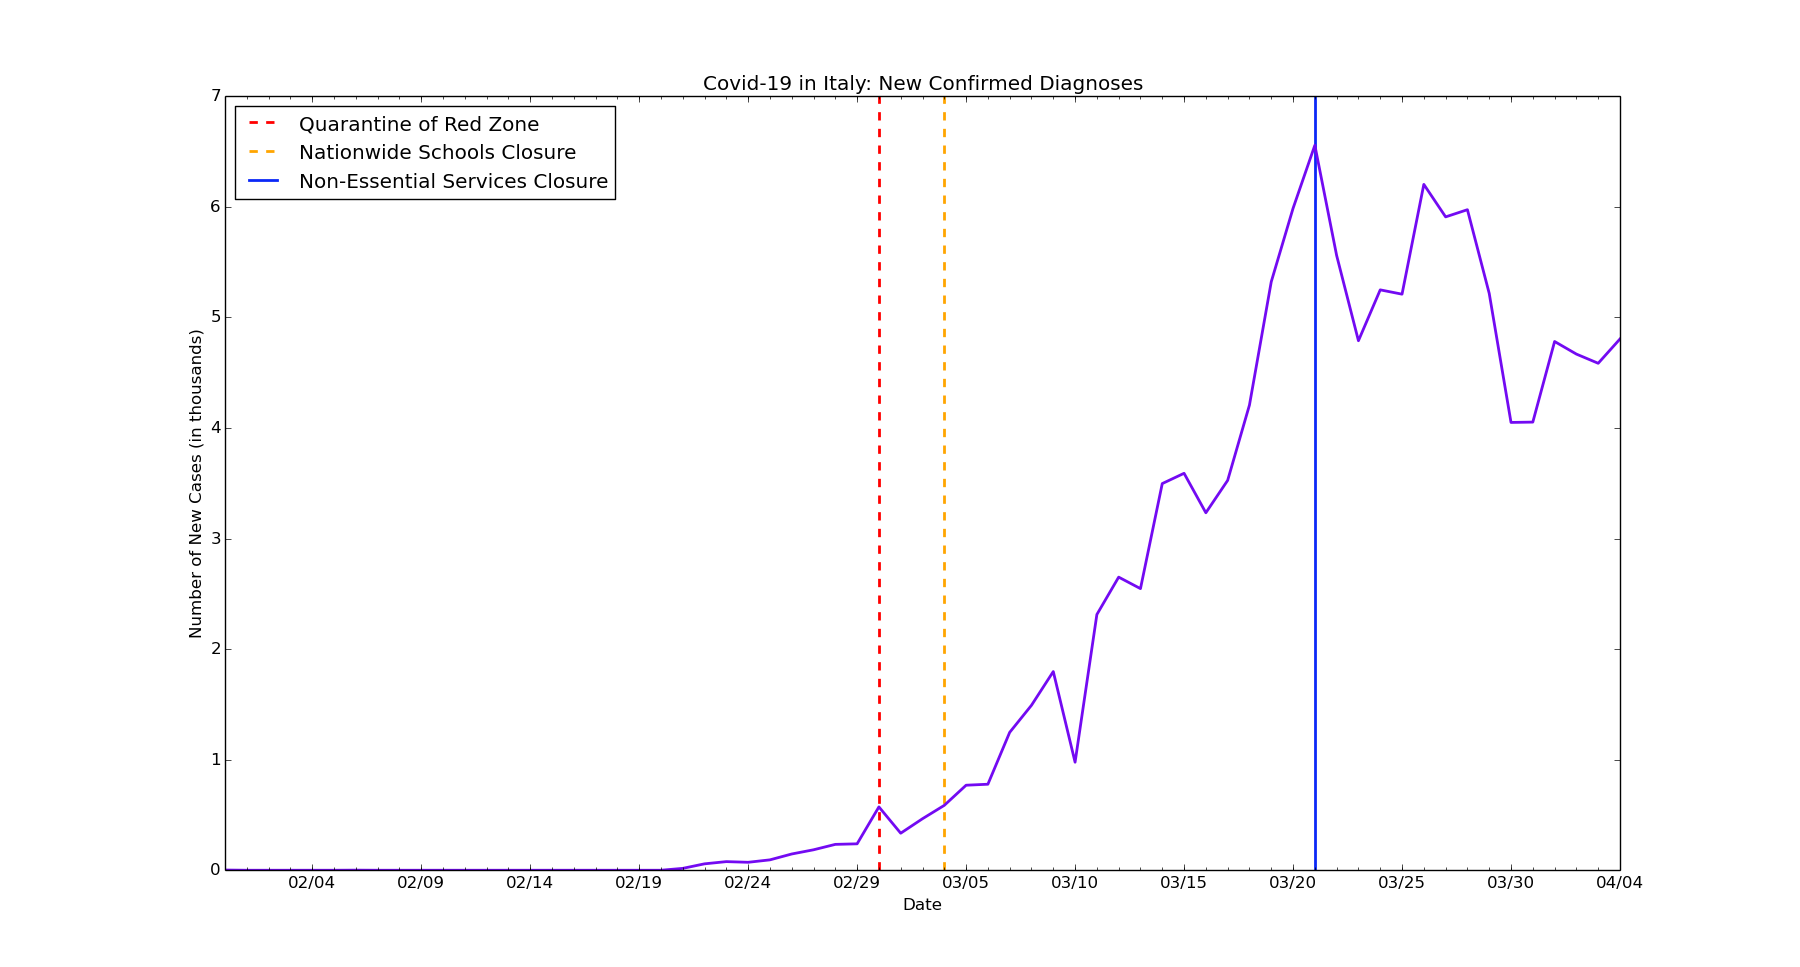
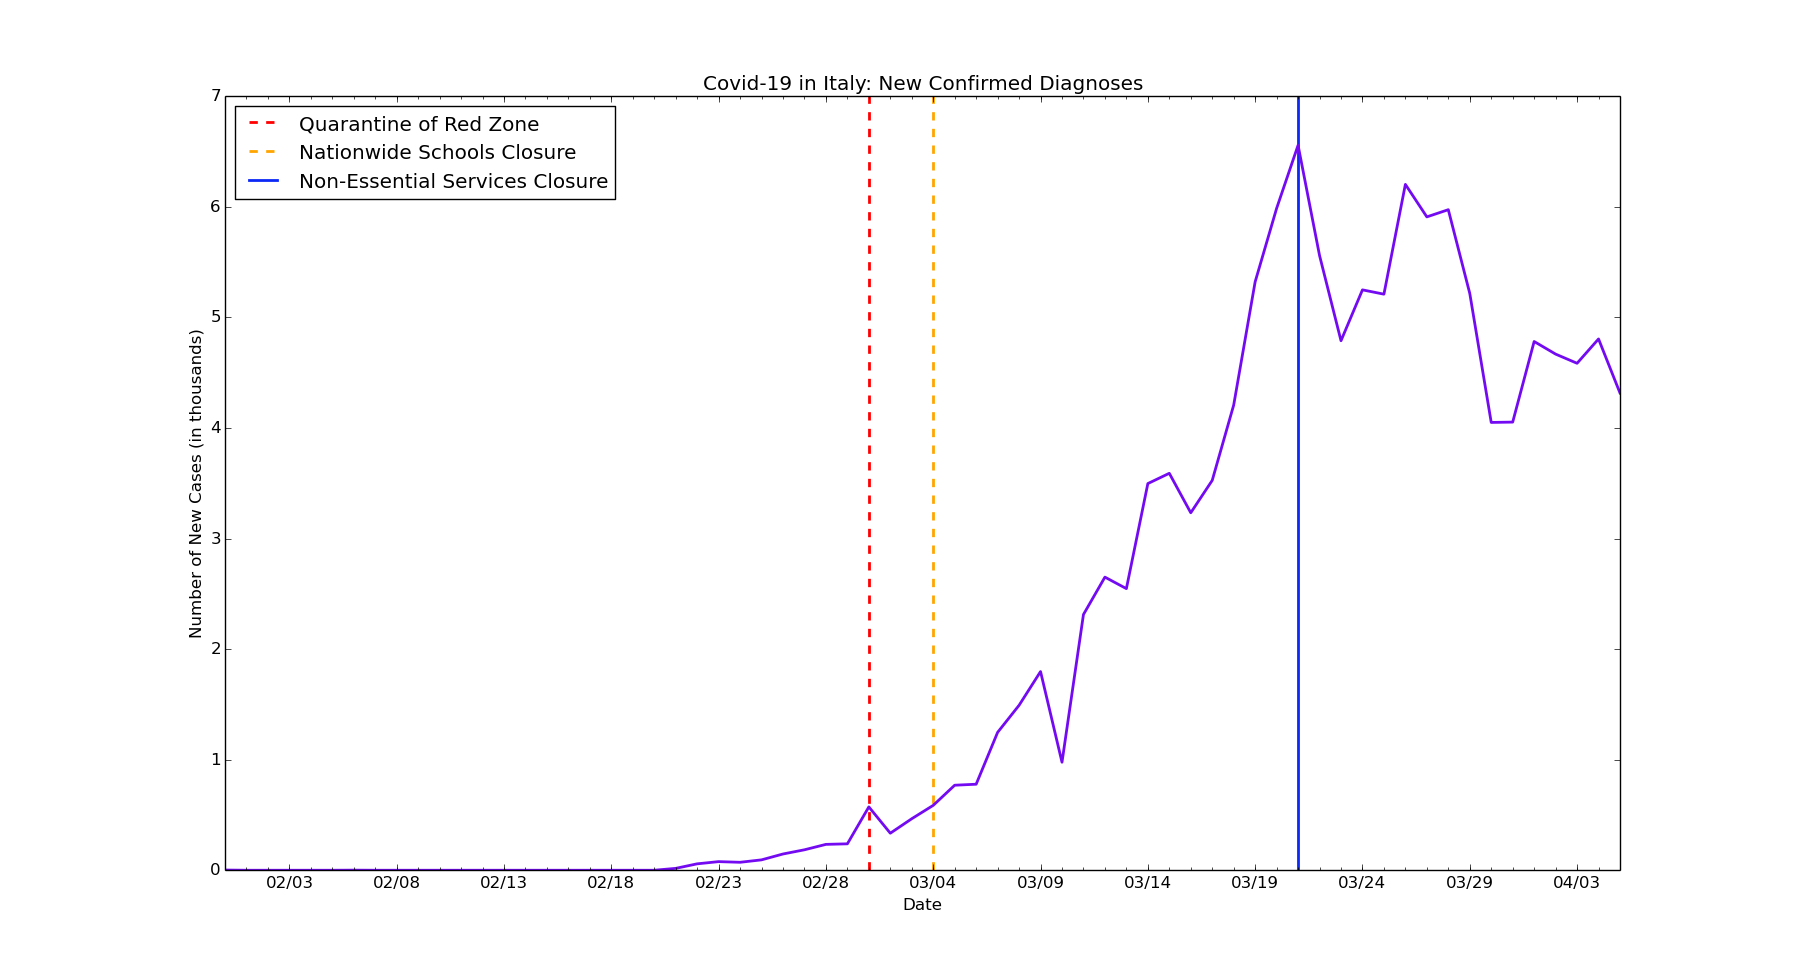
chore: Update data for Italy

diff --git a/italy/it-nc.py b/italy/it-nc.py
@@ -6,7 +6,7 @@ import matplotlib.dates as mdates
 import matplotlib.ticker as ticker
 from matplotlib.dates import MO, TU, WE, TH, FR, SA, SU
 
-dates = ['1/31/2020', '2/1/2020', '2/2/2020', '2/3/2020', '2/4/2020', '2/5/2020', '2/6/2020', '2/7/2020', '2/8/2020', '2/9/2020', '2/10/2020', '2/11/2020', '2/12/2020', '2/13/2020', '2/14/2020', '2/15/2020', '2/16/2020', '2/17/2020', '2/18/2020', '2/19/2020', '2/20/2020', '2/21/2020', '2/22/2020', '2/23/2020', '2/24/2020', '2/25/2020', '2/26/2020', '2/27/2020', '2/28/2020', '2/29/2020', '3/1/2020', '3/2/2020', '3/3/2020', '3/4/2020', '3/5/2020', '3/6/2020', '3/7/2020', '3/8/2020', '3/9/2020', '3/10/2020', '3/11/2020', '3/12/2020', '3/13/2020', '3/14/2020', '3/15/2020', '3/16/2020', '3/17/2020', '3/18/2020', '3/19/2020', '3/20/2020', '3/21/2020', '3/22/2020', '3/23/2020', '3/24/2020', '3/25/2020', '3/26/2020', '3/27/2020', '3/28/2020', '3/29/2020', '3/30/2020', '3/31/2020', '4/1/2020', '4/2/2020', '4/3/2020', '4/4/2020']
+dates = ['1/31/2020', '2/1/2020', '2/2/2020', '2/3/2020', '2/4/2020', '2/5/2020', '2/6/2020', '2/7/2020', '2/8/2020', '2/9/2020', '2/10/2020', '2/11/2020', '2/12/2020', '2/13/2020', '2/14/2020', '2/15/2020', '2/16/2020', '2/17/2020', '2/18/2020', '2/19/2020', '2/20/2020', '2/21/2020', '2/22/2020', '2/23/2020', '2/24/2020', '2/25/2020', '2/26/2020', '2/27/2020', '2/28/2020', '2/29/2020', '3/1/2020', '3/2/2020', '3/3/2020', '3/4/2020', '3/5/2020', '3/6/2020', '3/7/2020', '3/8/2020', '3/9/2020', '3/10/2020', '3/11/2020', '3/12/2020', '3/13/2020', '3/14/2020', '3/15/2020', '3/16/2020', '3/17/2020', '3/18/2020', '3/19/2020', '3/20/2020', '3/21/2020', '3/22/2020', '3/23/2020', '3/24/2020', '3/25/2020', '3/26/2020', '3/27/2020', '3/28/2020', '3/29/2020', '3/30/2020', '3/31/2020', '4/1/2020', '4/2/2020', '4/3/2020', '4/4/2020', '4/5/2020']
 
 # format dates
 x_values = [dt.datetime.strptime(d, "%m/%d/%Y").date() for d in dates]
@@ -31,7 +31,7 @@ plt.axvline(dt.datetime(2020, 3, 21), color='#0b28f7', linewidth=2, label='nones
 ax.get_yaxis().set_major_formatter(ticker.FuncFormatter(lambda x, pos: format(int(x/1000), ',')))
 
 # new cases by day
-new_cases = [2, 0, 0, 0, 0, 0, 1, 0, 0, 0, 0, 0, 0, 0, 0, 0, 0, 0, 0, 0, 0, 17, 58, 78, 72, 94, 147, 185, 234, 239, 573, 335, 466, 587, 769, 778, 1247, 1492, 1797, 977, 2313, 2651, 2547, 3497, 3590, 3233, 3526, 4207, 5322, 5986, 6557, 5560, 4789, 5249, 5210, 6203, 5909, 5974, 5217, 4050, 4053, 4782, 4668, 4585, 4805]
+new_cases = [2, 0, 0, 0, 0, 0, 1, 0, 0, 0, 0, 0, 0, 0, 0, 0, 0, 0, 0, 0, 0, 17, 58, 78, 72, 94, 147, 185, 234, 239, 573, 335, 466, 587, 769, 778, 1247, 1492, 1797, 977, 2313, 2651, 2547, 3497, 3590, 3233, 3526, 4207, 5322, 5986, 6557, 5560, 4789, 5249, 5210, 6203, 5909, 5974, 5217, 4050, 4053, 4782, 4668, 4585, 4805, 4316]
 
 # text labels
 plt.title('Covid-19 in Italy: New Confirmed Diagnoses')

diff --git a/italy/it-rvd.py b/italy/it-rvd.py
@@ -6,7 +6,7 @@ import matplotlib.dates as mdates
 import matplotlib.ticker as ticker
 from matplotlib.dates import MO, TU, WE, TH, FR, SA, SU
 
-dates = ['2/20/2020', '2/21/2020', '2/22/2020', '2/23/2020', '2/24/2020', '2/25/2020', '2/26/2020', '2/27/2020', '2/28/2020', '2/29/2020', '3/1/2020', '3/2/2020', '3/3/2020', '3/4/2020', '3/5/2020', '3/6/2020', '3/7/2020', '3/8/2020', '3/9/2020', '3/10/2020', '3/11/2020', '3/12/2020', '3/13/2020', '3/14/2020', '3/15/2020', '3/16/2020', '3/17/2020', '3/18/2020', '3/19/2020', '3/20/2020', '3/21/2020', '3/22/2020', '3/23/2020', '3/24/2020', '3/25/2020', '3/26/2020', '3/27/2020', '3/28/2020', '3/29/2020', '3/30/2020', '3/31/2020', '4/1/2020', '4/2/2020', '4/3/2020', '4/4/2020']
+dates = ['2/20/2020', '2/21/2020', '2/22/2020', '2/23/2020', '2/24/2020', '2/25/2020', '2/26/2020', '2/27/2020', '2/28/2020', '2/29/2020', '3/1/2020', '3/2/2020', '3/3/2020', '3/4/2020', '3/5/2020', '3/6/2020', '3/7/2020', '3/8/2020', '3/9/2020', '3/10/2020', '3/11/2020', '3/12/2020', '3/13/2020', '3/14/2020', '3/15/2020', '3/16/2020', '3/17/2020', '3/18/2020', '3/19/2020', '3/20/2020', '3/21/2020', '3/22/2020', '3/23/2020', '3/24/2020', '3/25/2020', '3/26/2020', '3/27/2020', '3/28/2020', '3/29/2020', '3/30/2020', '3/31/2020', '4/1/2020', '4/2/2020', '4/3/2020', '4/4/2020', '4/5/2020']
 
 # format dates
 x_values = [datetime.datetime.strptime(d, "%m/%d/%Y").date() for d in dates]
@@ -24,10 +24,10 @@ ax.xaxis.set_minor_locator(mdates.WeekdayLocator(byweekday=(MO, TU, WE, TH, FR, 
 ax.get_yaxis().set_major_formatter(ticker.FuncFormatter(lambda x, pos: format(int(x/1000), ',')))
 
 # total recoveries
-recoveries = [0, 1, 2, 2, 2, 3, 3, 45, 46, 50, 90, 149, 160, 276, 414, 523, 589, 622, 724, 1004, 1045, 1258, 1439, 1966, 2335, 2749, 2941, 4025, 4440, 5129, 6072, 7024, 7432, 8326, 9362, 10361, 10950, 12384, 13030, 14620, 15729, 16847, 18278, 19758, 20996]
+recoveries = [0, 1, 2, 2, 2, 3, 3, 45, 46, 50, 90, 149, 160, 276, 414, 523, 589, 622, 724, 1004, 1045, 1258, 1439, 1966, 2335, 2749, 2941, 4025, 4440, 5129, 6072, 7024, 7432, 8326, 9362, 10361, 10950, 12384, 13030, 14620, 15729, 16847, 18278, 19758, 20996, 21815]
 
 # total deaths
-deaths = [0, 1, 2, 3, 6, 10, 12, 17, 21, 29, 34, 52, 79, 107, 148, 197, 233, 366, 463, 631, 827, 1016, 1266, 1441, 1809, 2158, 2503, 2978, 3405, 4032, 4825, 5476, 6077, 6820, 7503, 8215, 9134, 10023, 10779, 11591, 12428, 13155, 13915, 14681, 15362]
+deaths = [0, 1, 2, 3, 6, 10, 12, 17, 21, 29, 34, 52, 79, 107, 148, 197, 233, 366, 463, 631, 827, 1016, 1266, 1441, 1809, 2158, 2503, 2978, 3405, 4032, 4825, 5476, 6077, 6820, 7503, 8215, 9134, 10023, 10779, 11591, 12428, 13155, 13915, 14681, 15362, 15887]
 
 # create the graph
 plt.plot(x_values, recoveries, color='#12cfdf', linewidth=2)
